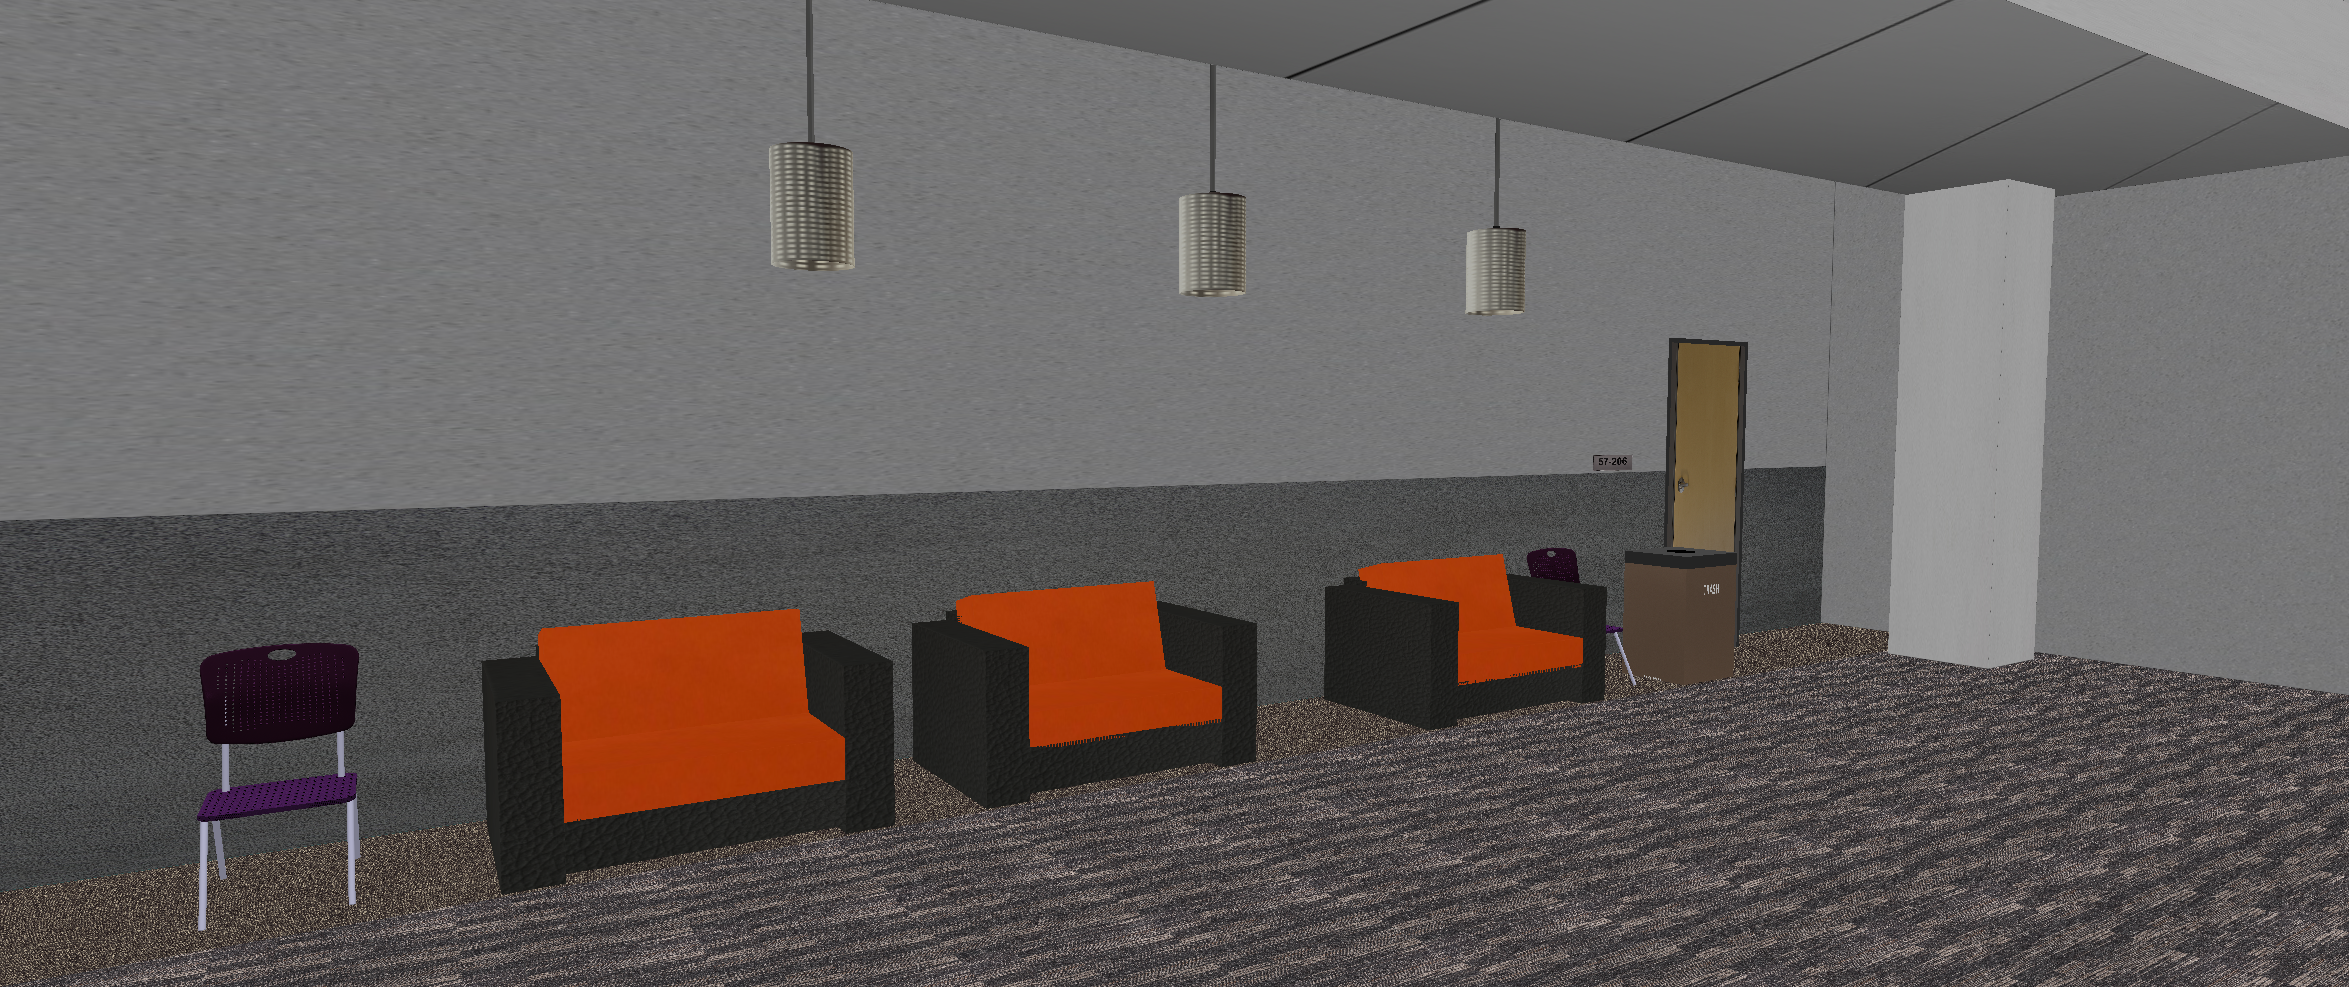
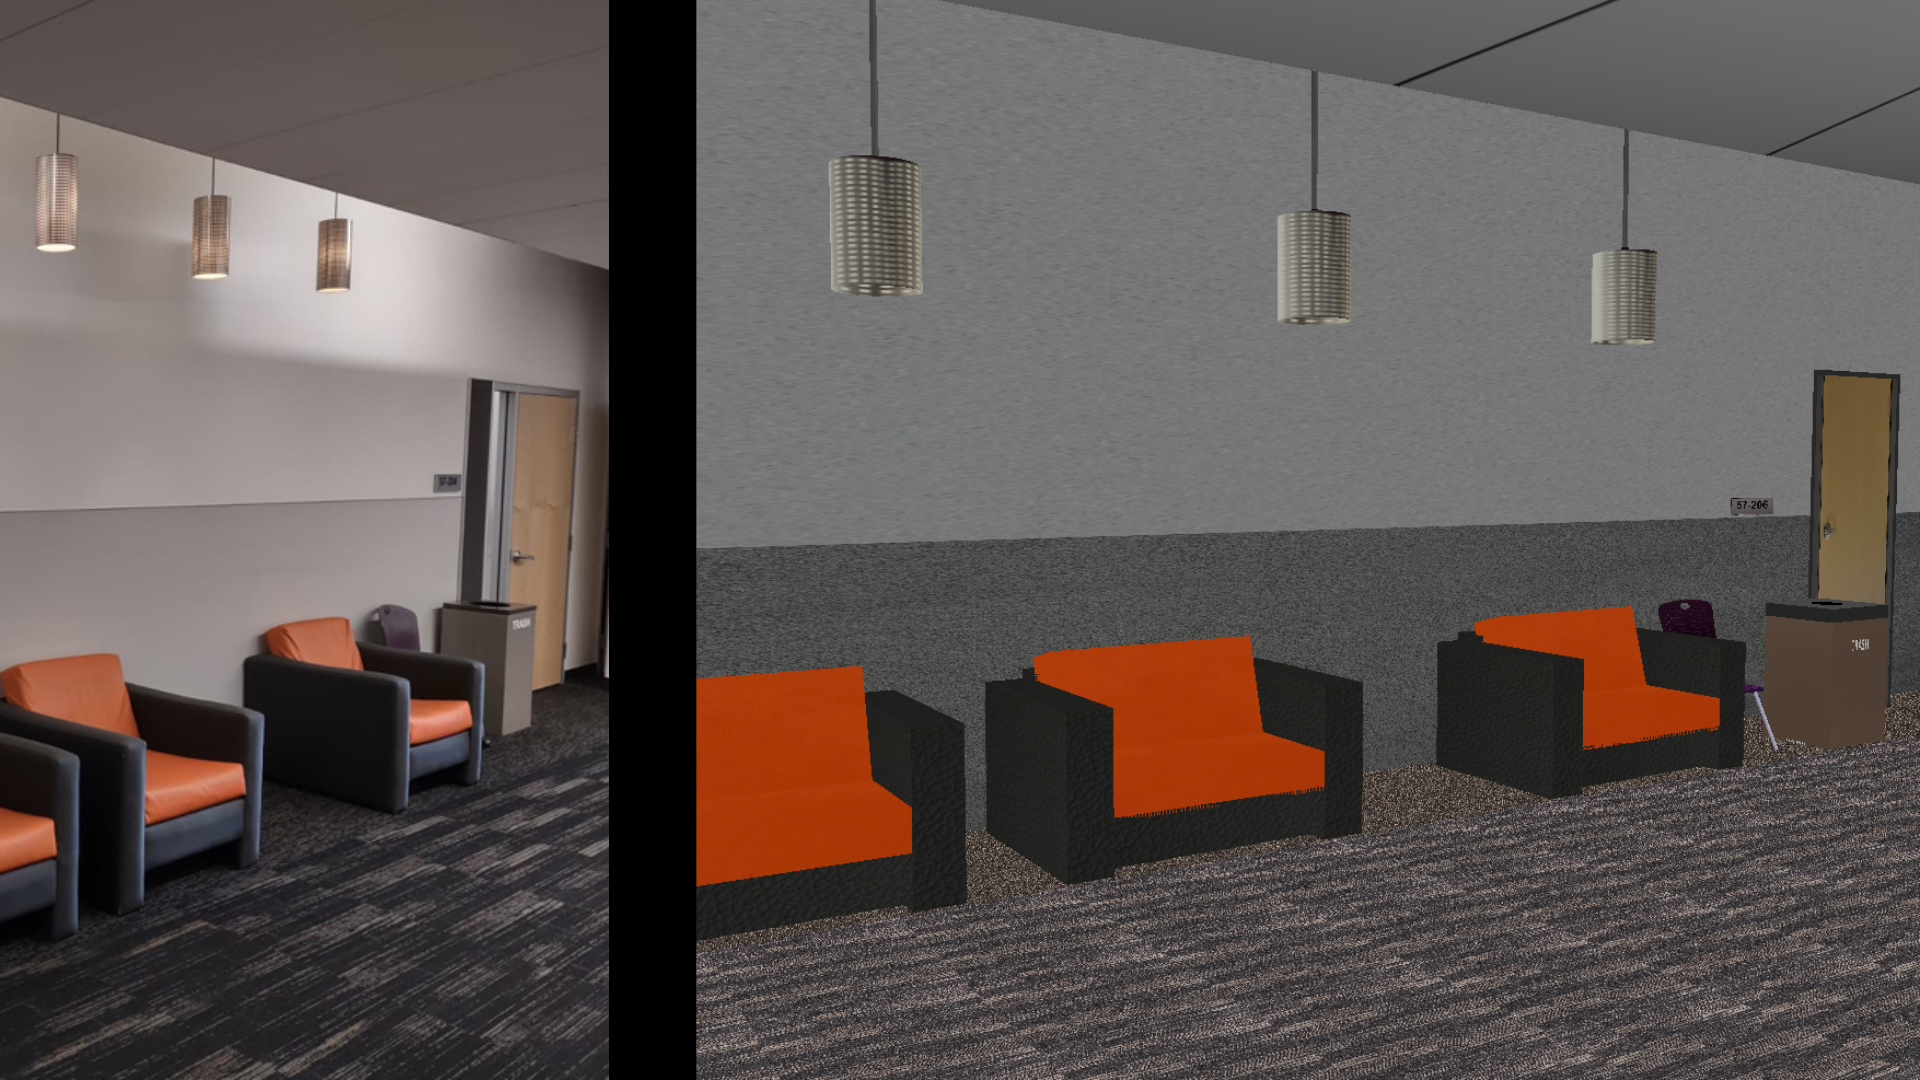
Update portfolio with new images and live site link
- Add live site URL to README
- Add component diagram image to flappy-bird-embedded project
- Add hallway IRL image to school-hallway-opengl project
- Update project images (phytopi-dashboard, school-hallway-opengl)
- Regenerate contentlayer cache and generated files

diff --git a/app/page.tsx b/app/page.tsx
@@ -111,7 +111,7 @@ export default function Home() {
       </Section>
 
       {/* Contact Section */}
-      <Section id="contact" title="Let's Work Together">
+      <Section id="contact" title="Let's Work Together" className="text-center">
         <div className="max-w-2xl mx-auto text-center">
           <p className="text-lg text-muted-foreground mb-8">
             I&apos;m always interested in new opportunities and exciting projects.

diff --git a/app/layout.tsx b/app/layout.tsx
@@ -27,7 +27,7 @@ export default function RootLayout({
         <div className="lg:grid lg:grid-cols-[320px_1fr] min-h-screen">
           <Sidebar />
           <main id="main" className="px-4 sm:px-6 lg:px-12">
-            <div className="max-w-4xl mx-auto">{children}</div>
+            <div className="max-w-6xl mx-auto">{children}</div>
           </main>
         </div>
       </body>

diff --git a/README.md b/README.md
@@ -2,6 +2,8 @@
 
 A modern, elegant portfolio website built with Next.js 14, featuring a sticky sidebar, smooth animations, and MDX-powered project case studies. Inspired by brittanychiang.com but with an original design.
 
+🔗 **Live Site**: [https://portfolio-website-jk9m.vercel.app/](https://portfolio-website-jk9m.vercel.app/)
+
 <!-- Deployment trigger -->
 
 ## 🚀 Features
